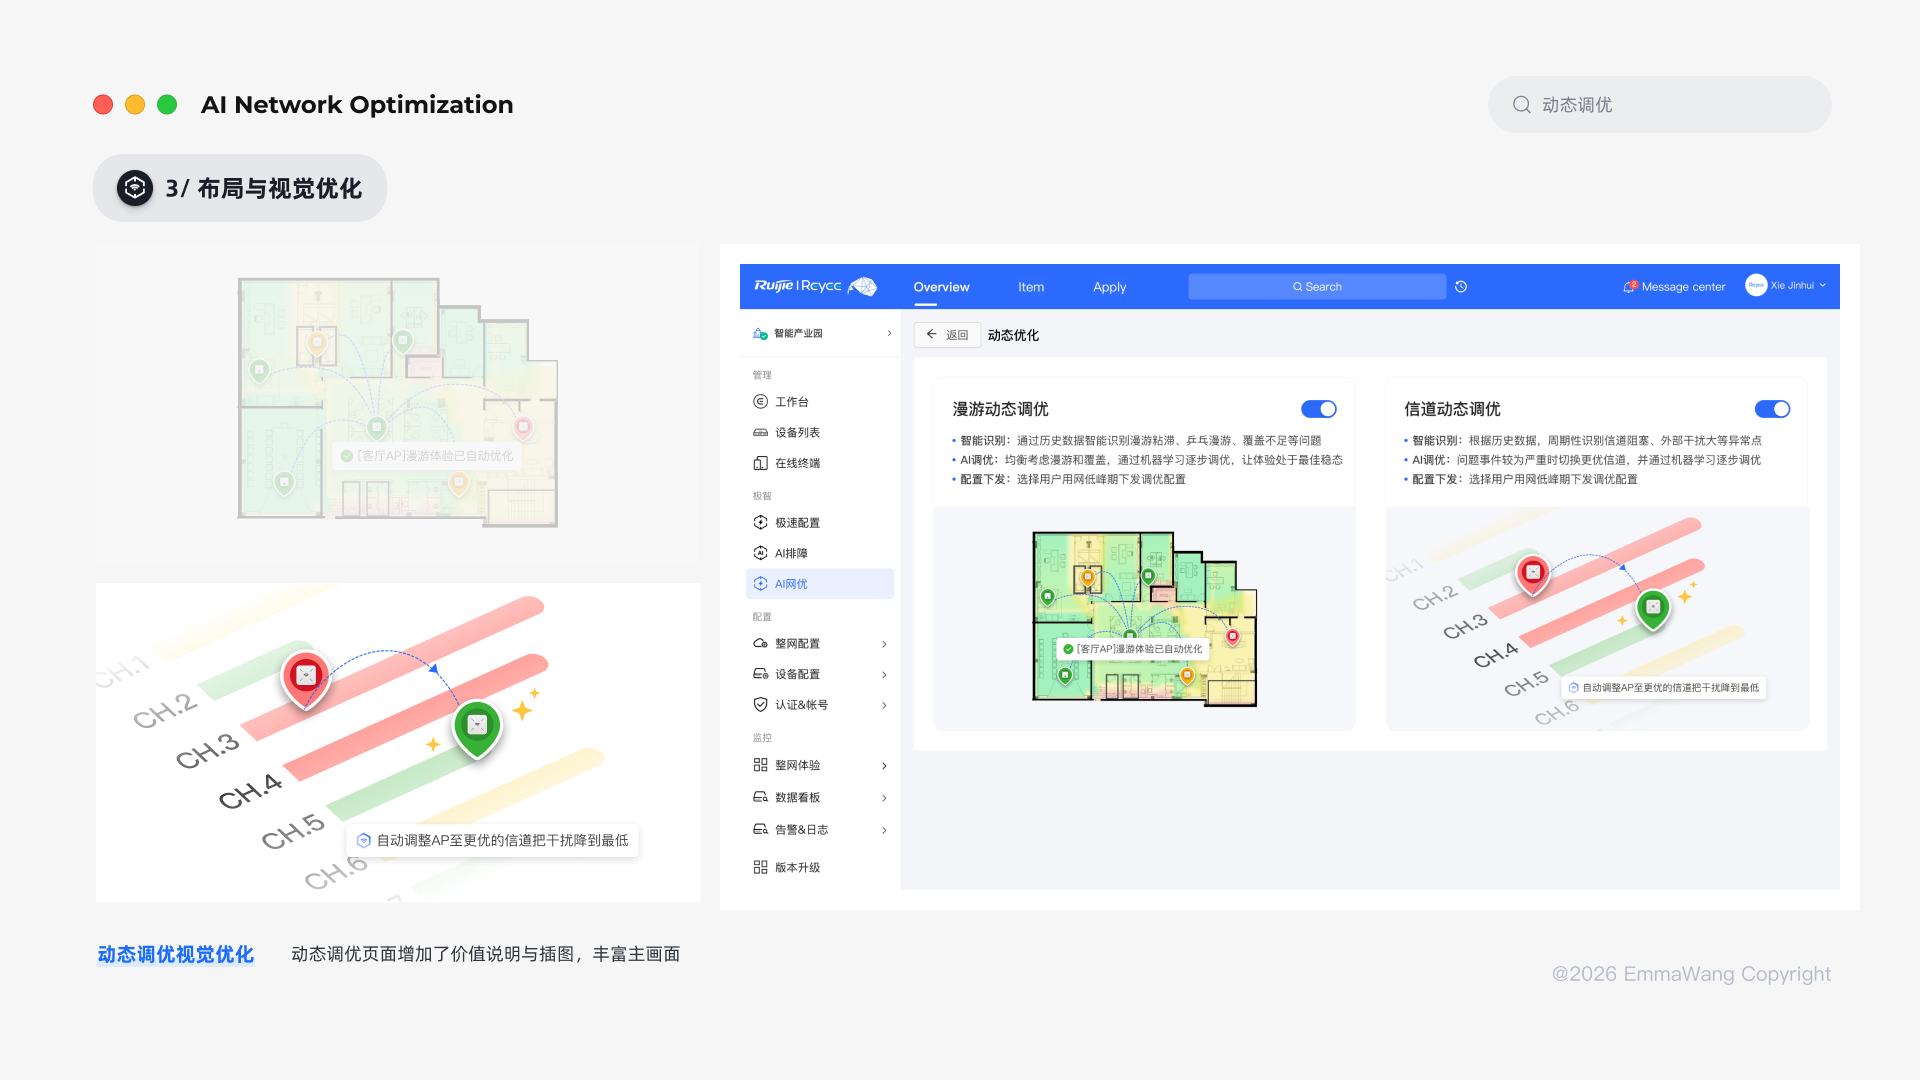
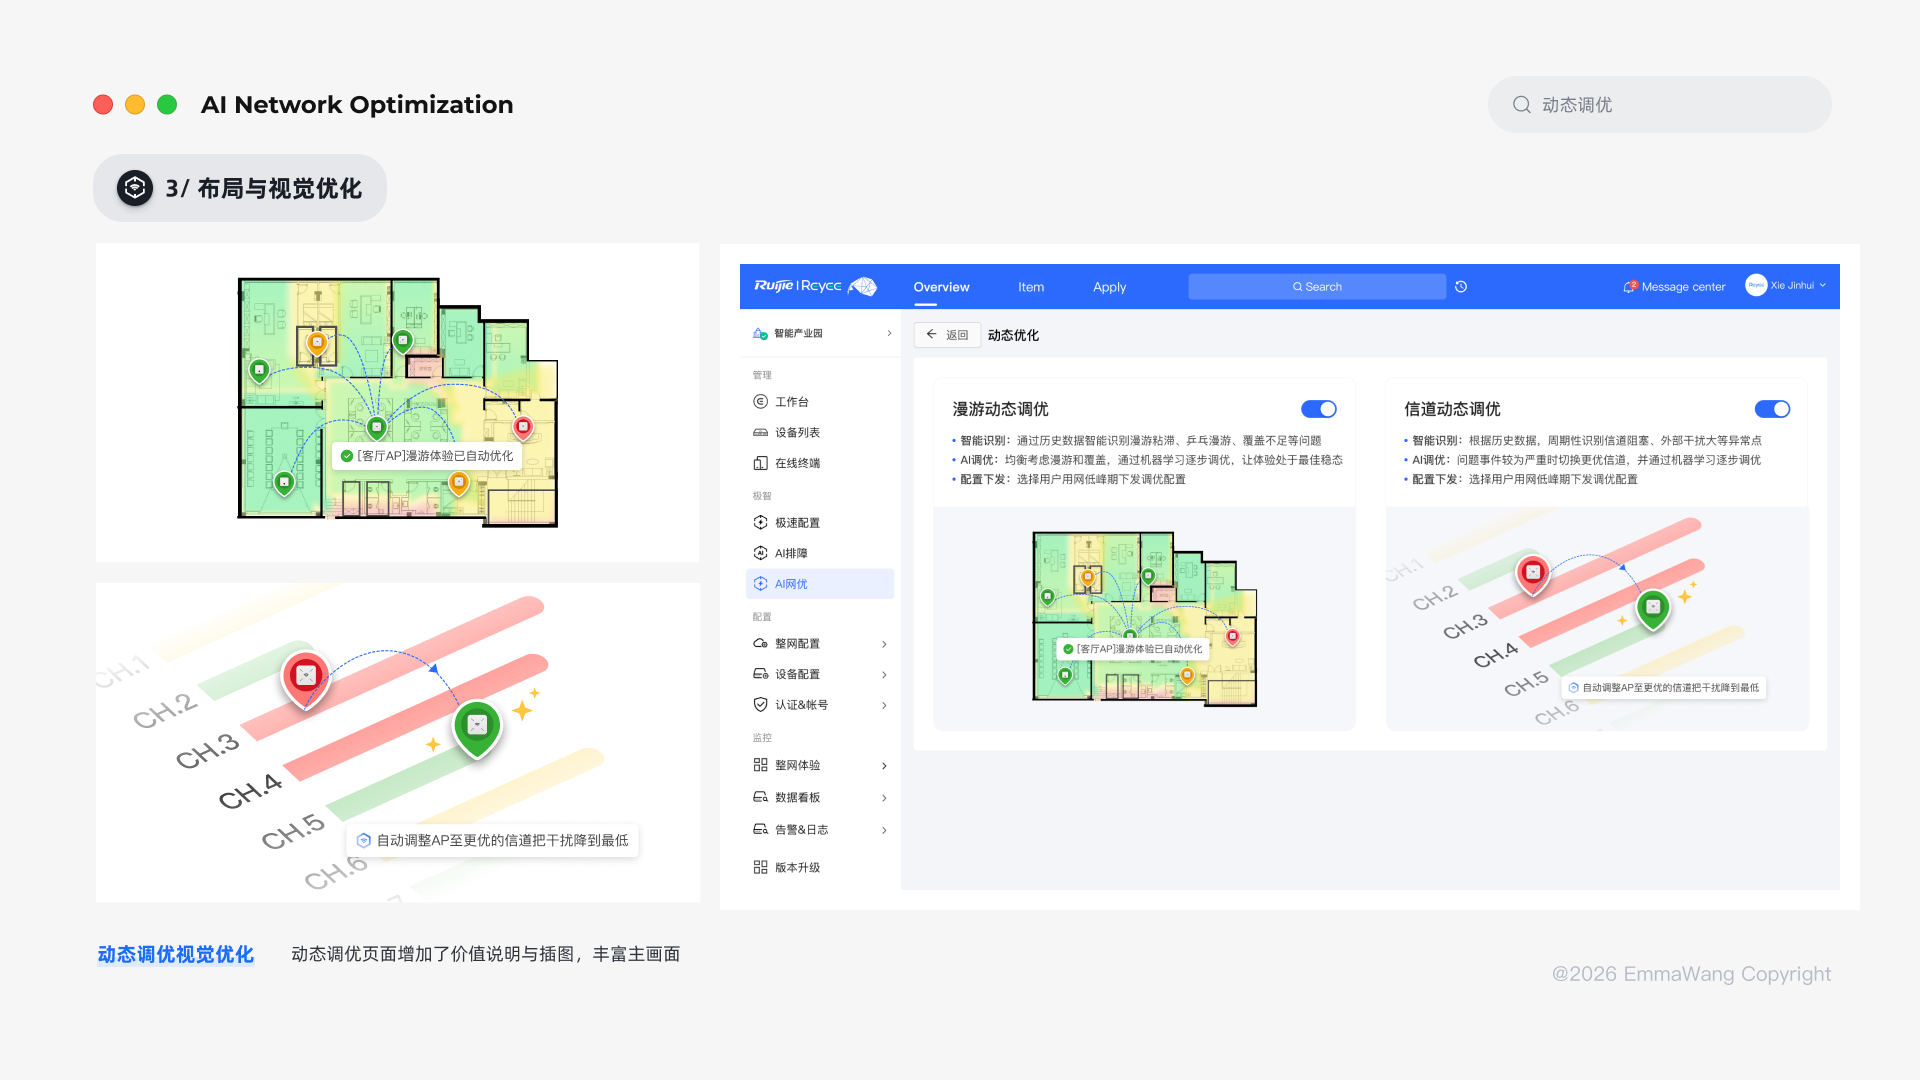
Update AI Optimization frame 2508:86041 only

Changed region(s): [[0.125, 0.2444, 0.3125, 0.4889]]

diff --git a/ai-optimization.html b/ai-optimization.html
@@ -19,7 +19,7 @@
 <section class="case-panel" aria-label="AI Optimization · 第 8 页" data-figma-node="2508:85658"><img src="assets/ai-optimization/page-08.webp" width="1920" height="1080" alt="AI Optimization · 第 8 页" loading="lazy" decoding="async"></section>
 <section class="case-panel" aria-label="AI Optimization · 第 9 页" data-figma-node="2508:85850"><img src="assets/ai-optimization/page-09.webp" width="1920" height="1080" alt="AI Optimization · 第 9 页" loading="lazy" decoding="async"></section>
 <section class="case-panel" aria-label="AI Optimization · 第 10 页" data-figma-node="2508:85885"><img src="assets/ai-optimization/page-10.webp" width="1920" height="1080" alt="AI Optimization · 第 10 页" loading="lazy" decoding="async"></section>
-<section class="case-panel" aria-label="AI Optimization · 第 11 页" data-figma-node="2508:86041"><img src="assets/ai-optimization/page-11.webp" width="1920" height="1080" alt="AI Optimization · 第 11 页" loading="lazy" decoding="async"></section>
+<section class="case-panel" aria-label="AI Optimization · 第 11 页" data-figma-node="2508:86041"><img src="assets/ai-optimization/page-11.webp?v=4ab696ff79bc" width="1920" height="1080" alt="AI Optimization · 第 11 页" loading="lazy" decoding="async"></section>
 <section class="case-panel" aria-label="AI Optimization · 第 12 页" data-figma-node="2508:86153"><img src="assets/ai-optimization/page-12.webp" width="1920" height="1080" alt="AI Optimization · 第 12 页" loading="lazy" decoding="async"></section>
 <section class="case-panel" aria-label="AI Optimization · 第 13 页" data-figma-node="2508:85828"><img src="assets/ai-optimization/page-13.webp" width="1920" height="1080" alt="AI Optimization · 第 13 页" loading="lazy" decoding="async"></section>
 <section class="case-panel" aria-label="AI Optimization · 第 14 页" data-figma-node="2508:86165"><img src="assets/ai-optimization/page-14.webp" width="1920" height="1080" alt="AI Optimization · 第 14 页" loading="lazy" decoding="async"></section>
